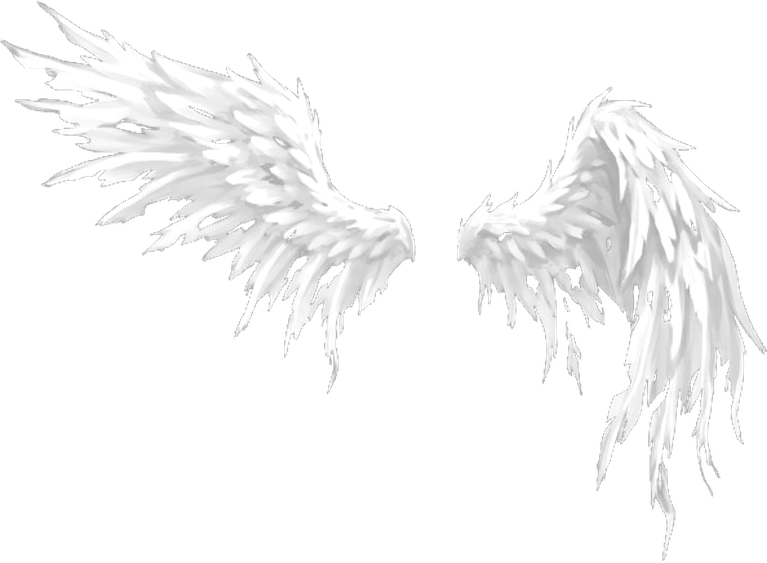
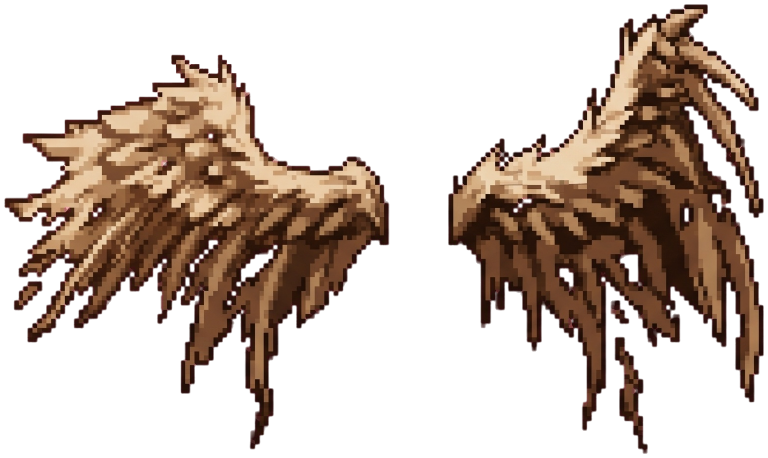
CELESTIAL-KIRIK-KANAT-YENI: Kırık Kanat'ın yeni sepya kanadı, sepya filtresi yalnız gövdeye (yalnız görünüm)
- public/kanat/celestial-kirik-kanat.webp: macenta zeminli assets-ham/kanat/celestial-kirik-kanat-yeni.jpg'den
  scripts/celestial-kirik-kanat.py (renk anahtarı, yırtık delikler şeffaf, kenar despill'i en yakın temiz sepya pikselden,
  768×458 kayıpsız WebP). Dosya adı ve veri bağı aynı; eskisi git geçmişinde.
- data/kanat-esleme.json: olcek 1.45 → 1.15 (jeton karesinden daha az taşar), capa [0.5428, 0.4437] (iki kanat kökünün ortası),
  enBoy 0.5964; filtre yok.
- data/alt-soy-gorunum.json: Kırık Kanat sepyasında `kanat: false` → filtre yalnız karakter gövdesine; lineageLook bayrağa bakar
  (alan yoksa eskisi gibi kanada da). Gövde sepyası değişmedi.
- Test (gerekçe: veri değişti): as1cGorunum Kırık Kanat çapa/ölçek değerleri; altSoy41 kanat filtresi bayrağa göre.
- Önizleme onizleme-kanat.html?m=kirik (eski kanat + sepya ↔ yeni), görsel docs/sabah/celestial-kirik-kanat-yeni/karsilastirma.png.

diff --git a/src/preview/kanatOnizleme.tsx b/src/preview/kanatOnizleme.tsx
@@ -3,6 +3,9 @@
  * ?m=ab: 10 soy × (Erkek Fighter Gladyatör, Kadın Wizard) × (256, 96 px rozet), önce/sonra karşılaştırması için aynı sayfa iki sürümde çekilir.
  * ?m=ozet: Erkek Fighter Gladyatör, 10 soy, 256 px (iki hal karşılaştırması için kompakt; `katmanlar.zar.etkin` açık/kapalı iki kez çekilir).
  * ?m=hepsi: bütün Dragonborn jetonları (savaş jetonu çizimi, havada), kök kontrol sayfası. ?m=kok: 4 farklı sınıf/poz, kök işaretli.
+ * ?m=kirik (CELESTIAL-KIRIK-KANAT-YENI): Celestial Kırık Kanat, eski kanat (sepya filtreli, `?eski=` ile verilen dosya) ↔ yeni kanat
+ * (filtresiz) yan yana; erkek Bard, kadın Rogue, erkek Monk; rozet ve savaş jetonu, 96 px ve 3× (288 px). Eski kanadın verisi burada
+ * sabit (kanat-esleme.json'un önceki değerleri); eski görsel geçici olarak public/kanat/ altına konup çekimden sonra silinir.
  */
 import { createRoot } from 'react-dom/client';
 import '../styles.css';
@@ -15,6 +18,8 @@ import { LookFrame } from '../ui/LookFrame';
 import { blankCharacter } from '../rules/builder';
 import { sheetAvatar } from '../battle/avatar';
 import type { CharacterSheet } from '../rules/stats';
+import gorunum from '../../data/alt-soy-gorunum.json';
+import { loadWingData, wingTable } from '../ui/wingData';
 
 const mode = new URLSearchParams(location.search).get('m') ?? 'ab';
 const base = blankCharacter('t').sheet;
@@ -159,10 +164,62 @@ async function renkOlc(adim: number) {
   const pre = document.createElement('pre'); pre.id = 'sayfa'; pre.textContent = JSON.stringify(out); host.appendChild(pre);
 }
 
+/** Eski Kırık Kanat (CELESTIAL-KIRIK-KANAT-YENI öncesi): beyaz kanat + sepya filtresi; sahte uyanış `kk-eski` ve slot `kk-eski`. */
+async function kirikHazirla() {
+  await loadWingData();
+  const uy = (gorunum as unknown as { celestialUyanis: Record<string, { sepya?: Record<string, unknown> }> }).celestialUyanis;
+  const yeni = uy['kirik-kanat']!;
+  uy['kk-eski'] = { ...yeni, kanat: 'kk-eski', sepya: { ...yeni.sepya, kanat: true } } as never;
+  wingTable.slotlar['kk-eski'] = { ...wingTable.slotlar['celestial-kirik-kanat']!, dosya: q.get('eski') ?? '_karsilastirma-eski.webp', olcek: 1.45, capa: [0.568, 0.438], enBoy: 0.734 };
+}
+const KIRIK: Array<{ ad: string; sheet: Partial<CharacterSheet> }> = [
+  { ad: 'Erkek Bard', sheet: { classId: 'bard', gender: 'erkek' } },
+  { ad: 'Kadın Rogue', sheet: { classId: 'rogue', gender: 'kadin' } },
+  { ad: 'Erkek Monk', sheet: { classId: 'monk', gender: 'erkek' } },
+];
+const KIRIK_KOL = [{ aw: 'kk-eski', ad: 'ESKİ kanat + sepya filtresi' }, { aw: 'kirik-kanat', ad: 'YENİ kanat (filtresiz)' }];
+function KirikHucre({ ch, aw, size, kind }: { ch: (typeof KIRIK)[number]; aw: string; size: number; kind: 'rozet' | 'jeton' }) {
+  const sheet = { ...base, raceId: 'celestial', level: 5, celestialAwakening: aw, ...ch.sheet } as CharacterSheet;
+  const a = sheetAvatar(sheet);
+  const box = Math.round(size * 1.6);
+  if (kind === 'rozet') return (
+    <div style={{ width: box, height: Math.round(size * 1.15), display: 'flex', alignItems: 'flex-end', justifyContent: 'center' }}>
+      <LookFrame sheet={{ raceId: 'celestial', celestialAwakening: aw, level: 5 }} size={size} ability><AvatarBadge avatar={a} size={size} eager /></LookFrame>
+    </div>
+  );
+  return (
+    <svg width={box} height={Math.round(size * 1.15)} viewBox={`0 0 ${box} ${Math.round(size * 1.15)}`} style={{ background: '#2b3a2a', borderRadius: 6 }}>
+      <AvatarCircle avatar={a} cx={box / 2} cy={Math.round(size * 1.15) / 2} r={size / 2} eager />
+    </svg>
+  );
+}
+function PageKirik() {
+  const satir = (kind: 'rozet' | 'jeton', size: number) => `${kind === 'rozet' ? 'Rozet' : 'Savaş jetonu'} ${size} px`;
+  return (
+    <div id="sayfa" style={{ background: '#1d2128', color: '#e8e4da', font: '13px system-ui', padding: 10, display: 'inline-block' }}>
+      {KIRIK.map((ch) => (
+        <div key={ch.ad} style={{ borderBottom: '1px solid #3a4350', padding: '6px 0' }}>
+          <div style={{ color: '#f5d76e', fontWeight: 700, fontSize: 15 }}>{ch.ad} · Celestial Kırık Kanat (5. seviye)</div>
+          <div style={{ display: 'grid', gridTemplateColumns: `90px repeat(${KIRIK_KOL.length}, auto)`, columnGap: 18, alignItems: 'end' }}>
+            <div />{KIRIK_KOL.map((k) => <div key={k.aw} style={{ ...lab, fontWeight: 700 }}>{k.ad}</div>)}
+            {(['rozet', 'jeton'] as const).flatMap((kind) => [96, 288].map((size) => (
+              <div key={kind + size} style={{ display: 'contents' }}>
+                <div style={{ alignSelf: 'center', color: '#cfd3dc' }}>{satir(kind, size)}</div>
+                {KIRIK_KOL.map((k) => <KirikHucre key={k.aw} ch={ch} aw={k.aw} size={size} kind={kind} />)}
+              </div>
+            )))}
+          </div>
+        </div>
+      ))}
+    </div>
+  );
+}
+
 const host = document.createElement('div'); host.style.cssText = 'position:fixed;left:0;top:0;z-index:99999'; document.body.appendChild(host);
 if (mode === 'ab') createRoot(host).render(<PageAb />);
 else if (mode === 'hepsi') createRoot(host).render(<PageHepsi />);
 else if (mode === 'kok') createRoot(host).render(<PageKok />);
 else if (mode === 'ozet') createRoot(host).render(<PageOzet />);
 else if (mode === 'figur') createRoot(host).render(<PageFigur />);
+else if (mode === 'kirik') void kirikHazirla().then(() => createRoot(host).render(<PageKirik />));
 else if (mode === 'renk') void renkOlc(+(q.get('adim') ?? 5));

diff --git a/src/ui/lineageLook.ts b/src/ui/lineageLook.ts
@@ -44,8 +44,11 @@ const D = data as unknown as {
   ten: { varsayilan: string; filtreUygula: boolean; tonlar: SkinTone[]; kulturTen: Record<string, string[]>;
     surgun: { kultur: string; secenekler: string[]; ad: Record<string, { tr: string; en: string }> } };
 };
-/** CELESTIAL-KIRIK-KANAT-SEPYA: uyanışın sepya tonu (veride `celestialUyanis.<uyanış>.sepya`); `acik: false` kapatır. */
-export interface Sepya { acik: boolean; gri: number; sepya: number; doygunluk: number; parlaklik: number; ton: number }
+/**
+ * CELESTIAL-KIRIK-KANAT-SEPYA: uyanışın sepya tonu (veride `celestialUyanis.<uyanış>.sepya`); `acik: false` kapatır.
+ * CELESTIAL-KIRIK-KANAT-YENI: `kanat: false` yalnız gövdeye (kanat katmanı kendi renginde); alan yoksa kanada da.
+ */
+export interface Sepya { acik: boolean; gri: number; sepya: number; doygunluk: number; parlaklik: number; ton: number; kanat?: boolean }
 /** Sepya ayarı → CSS filtresi (jeton gövdesi ve kanat katmanı aynı dizgeyi alır; `url(#…)` değil: WingFilterHost/Firefox kimlik tuzağı yok). */
 export const sepyaFilter = (s: Sepya | undefined): string =>
   s?.acik ? `grayscale(${s.gri}) sepia(${s.sepya}) saturate(${s.doygunluk}) brightness(${s.parlaklik})${s.ton ? ` hue-rotate(${s.ton}deg)` : ''}` : '';
@@ -217,6 +220,7 @@ export function lineageLook(sheet: LookSheet, opts: { flying?: boolean; ability?
   let scaleX = 1, scaleY = 1, hideHalo = false;
   let wingId: string | undefined;
   let tone = '';
+  let wingTone = true;
   const level = sheet.level ?? 1;
   if (sheet.raceId === 'celestial') {
     const aw = D.celestialUyanis[sheet.celestialAwakening ?? AWAKENING_DEFAULT];
@@ -225,6 +229,7 @@ export function lineageLook(sheet: LookSheet, opts: { flying?: boolean; ability?
       if (aw.filtre) filters.push(aw.filtre);
       tone = sepyaFilter(aw.sepya);
       if (tone) filters.push(tone);
+      wingTone = aw.sepya?.kanat !== false;
       wingId = aw.kanat;
     }
   } else {
@@ -237,8 +242,8 @@ export function lineageLook(sheet: LookSheet, opts: { flying?: boolean; ability?
   wingId = subclassWingId(sheet) ?? wingId;
   if (!wingId && sheet.raceId === 'dragonborn') wingId = 'dragonborn';
   const raw = wingId ? wingLayer(wingId, level, !!(opts.flying || opts.ability), sheet.lineageId) : null;
-  // Sepya kanada da aynı CSS filtresiyle (kanat ayrıca renk almaz: palet/katman yerine sepya; Kırık Kanat'ın paleti yok).
-  const wing = raw && tone ? (({ palet: _p, katmanlar: _k, ...w }) => ({ ...w, filtre: [w.filtre, tone].filter(Boolean).join(' ') }))(raw) : raw;
+  // Sepya kanada da aynı CSS filtresiyle (kanat ayrıca renk almaz: palet/katman yerine sepya), veride `kanat: false` değilse.
+  const wing = raw && tone && wingTone ? (({ palet: _p, katmanlar: _k, ...w }) => ({ ...w, filtre: [w.filtre, tone].filter(Boolean).join(' ') }))(raw) : raw;
   return { filter: filters.join(' '), scaleX, scaleY, wing, hideHalo };
 }
 

diff --git a/src/ui/as1cGorunum.test.tsx b/src/ui/as1cGorunum.test.tsx
@@ -76,9 +76,9 @@ describe('kanat katmanı (bağlı)', () => {
   it('eşleme: üç slot (Anka ve Melek bağlaması KQ6-3 ile kaldırıldı), dosyalar bağlı ve gerçekten var, çapa/oran/omuz veride, Dragonborn 10 renk filtresi', async () => {
     expect(Object.keys(s).sort()).toEqual(['celestial-kirik-kanat', 'dragonborn', 'tiefling-kanatli']);
     // KW1: Dragonborn görseli TEK (sağ) kanat (`ayna`: iki yana ayna, kök gövdeye bağlı): çapa kanadın kökü (omuz eklemi), `olcek` tek kanadın jeton genişliğine oranı,
-    // `omuz` kökün jeton yüksekliğindeki yeri (omuz–dirsek bandı). Diğer iki slot kanat çifti: çapa jetonun yatay merkezinde, çift genişliği 1.45, omuz 0.46.
-    const capa = { 'tiefling-kanatli': [0.501, 0.708], 'celestial-kirik-kanat': [0.568, 0.438], dragonborn: [0.0577, 0.448] };
-    const olcek = { 'tiefling-kanatli': 1.45, 'celestial-kirik-kanat': 1.45, dragonborn: 0.6 } as Record<string, number>;
+    // `omuz` kökün jeton yüksekliğindeki yeri (omuz–dirsek bandı). Diğer iki slot kanat çifti: çapa jetonun yatay merkezinde, çift genişliği 1.45 (Kırık Kanat 1.15: CELESTIAL-KIRIK-KANAT-YENI), omuz 0.46.
+    const capa = { 'tiefling-kanatli': [0.501, 0.708], 'celestial-kirik-kanat': [0.5428, 0.4437], dragonborn: [0.0577, 0.448] };
+    const olcek = { 'tiefling-kanatli': 1.45, 'celestial-kirik-kanat': 1.15, dragonborn: 0.6 } as Record<string, number>;
     const omuz = { 'tiefling-kanatli': 0.46, 'celestial-kirik-kanat': 0.46, dragonborn: 0.4 } as Record<string, number>;
     for (const [id, w] of Object.entries(s)) {
       expect(w.dosya, id).toBe(`${id}.webp`);

diff --git a/src/rules/altSoy41.test.tsx b/src/rules/altSoy41.test.tsx
@@ -233,7 +233,10 @@ describe('görünüm verisi', () => {
     const sp = (gorunum.celestialUyanis as Record<string, { sepya?: Sepya }>)['kirik-kanat']!.sepya!;
     const kk = at('kirik-kanat', 5, true);
     expect(kk.filter).toBe(sp.acik ? sepyaFilter(sp) : '');
-    if (sp.acik) { expect(kk.filter).toMatch(/^grayscale\(1\) sepia\(/); expect(kk.wing?.filtre).toContain(kk.filter); expect(kk.wing?.palet).toBeUndefined(); }
+    if (sp.acik) expect(kk.filter).toMatch(/^grayscale\(1\) sepia\(/);
+    // CELESTIAL-KIRIK-KANAT-YENI: `kanat: false` → kanat kendi renginde (filtre yok); aksi halde kanada da aynı sepya.
+    if (sp.acik && sp.kanat === false) expect(kk.wing?.filtre ?? '').not.toContain('sepia');
+    else if (sp.acik) { expect(kk.wing?.filtre).toContain(kk.filter); expect(kk.wing?.palet).toBeUndefined(); }
     expect(sepyaFilter({ ...sp, acik: false })).toBe('');
     expect(at('parlayan-ruh').filter).toBe('');
     expect(at('gece-gozyasi').filter).not.toContain('sepia');

diff --git a/scripts/celestial-kirik-kanat.py b/scripts/celestial-kirik-kanat.py
@@ -1,0 +1,77 @@
+#!/usr/bin/env python3
+"""CELESTIAL-KIRIK-KANAT-YENI (yalnız görünüm): düz macenta zeminli Kırık Kanat görselinden şeffaf kanat çifti üretir.
+`python -X utf8 scripts/celestial-kirik-kanat.py [--kaynak <jpg>] [--cikti <webp>] [--en 768]`
+- Zemin: renk anahtarı (macentalık m = min(R, B) − G); kanat içindeki yırtık delikler de aynı anahtarla şeffaf (taşma dolgusu değil).
+- Kenar (despill): yarı saydam ve macentaya kaymış (m > 0) her piksel rengini en yakın temiz sepya pikselden alır (alfa anahtardan);
+  temiz (opak, m ≤ 0) sepya piksellerine dokunulmaz.
+- Küçük kırıntılar (JPG gürültüsü) atılır; iki kanat ve aralarındaki boşluk tek görselde kalır, kanatların ortak sınırına kırpılır.
+- Ölçek: kırpılmış çift `--en` px genişliğe alan ortalamasıyla (premultiplied) küçültülür; kayıpsız WebP.
+- Konsola `capa` (iki kanat kökünün ortası, görsel oranı) ve `enBoy` yazılır (`data/kanat-esleme.json` `celestial-kirik-kanat`)."""
+import argparse, os
+import numpy as np
+from PIL import Image
+from scipy import ndimage
+
+ROOT = os.path.dirname(os.path.dirname(os.path.abspath(__file__)))
+OPAK = 40          # m ≤ OPAK: tam opak (sepya ve koyu çizgi m < 0)
+SEFFAF = 200       # m ≥ SEFFAF: tam şeffaf (zemin m ≈ 251)
+KIRINTI = 400      # bundan küçük opak bileşen (kaynak px) atılır
+PAY = 4            # kırpma payı (çıkış px)
+# Kanat kökleri (kaynak px, 2400×1792): sol kanadın gövdeye bakan omuz düğümü ve sağ kanadınki (yuvarlak kemik ucu).
+KOK_SOL = (1290, 730)
+KOK_SAG = (1430, 745)
+
+
+def main():
+    ap = argparse.ArgumentParser()
+    ap.add_argument('--kaynak', default=os.path.join(ROOT, 'assets-ham/kanat/celestial-kirik-kanat-yeni.jpg'))
+    ap.add_argument('--cikti', default=os.path.join(ROOT, 'public/kanat/celestial-kirik-kanat.webp'))
+    ap.add_argument('--en', type=int, default=768)
+    a = ap.parse_args()
+    rgb = np.asarray(Image.open(a.kaynak).convert('RGB')).astype(np.float64)
+    h0, w0 = rgb.shape[:2]
+    kenar = np.concatenate([rgb[:40].reshape(-1, 3), rgb[-40:].reshape(-1, 3), rgb[:, :40].reshape(-1, 3), rgb[:, -40:].reshape(-1, 3)])
+    zemin = np.median(kenar, 0)
+    m = np.minimum(rgb[..., 0], rgb[..., 2]) - rgb[..., 1]
+    alfa = np.clip((SEFFAF - m) / (SEFFAF - OPAK), 0, 1)
+    # Kırıntı temizliği: yarıdan opak bileşenler; küçükler ve onlara bağlı yarı saydam hale atılır.
+    lab, n = ndimage.label(alfa > 0.5)
+    alan = ndimage.sum(np.ones_like(alfa), lab, range(1, n + 1))
+    tut = np.zeros(n + 1, bool); tut[1:] = alan >= KIRINTI
+    govde = ndimage.binary_dilation(tut[lab], iterations=3)
+    alfa = np.where(govde, alfa, 0)
+    alfa[alfa < 0.04] = 0
+    # Un-premultiply: P = a·C + (1 − a)·K → C = (P − (1 − a)·K) / a.
+    a3 = alfa[..., None]
+    renk = np.where(a3 > 0, (rgb - (1 - a3) * zemin) / np.maximum(a3, 1e-6), 0)
+    renk = np.clip(renk, 0, 255)
+    # Taşma temizliği: JPG renk alt örneklemesi kenarda macentayı kırmızıya kaydırır; temiz olmayan (yarı saydam ya da m > 0)
+    # her piksel rengini en yakın temiz sepya pikselden alır (alfa aynı kalır).
+    temiz = (alfa >= 1) & (m <= 0)
+    _, (iy, ix) = ndimage.distance_transform_edt(~temiz, return_indices=True)
+    kirli = (alfa > 0) & ~temiz
+    renk[kirli] = renk[iy[kirli], ix[kirli]]
+    # Kırpma (kaynakta), sonra premultiplied alan ortalamasıyla küçültme.
+    ys, xs = np.nonzero(alfa > 0)
+    x0, x1, y0, y1 = xs.min(), xs.max() + 1, ys.min(), ys.max() + 1
+    k = a.en / (x1 - x0 + 2 * PAY * (x1 - x0) / a.en)
+    pay = int(round(PAY / k))
+    x0, y0 = max(0, x0 - pay), max(0, y0 - pay); x1, y1 = min(w0, x1 + pay), min(h0, y1 + pay)
+    cw, ch = x1 - x0, y1 - y0
+    W = a.en; H = int(round(ch * W / cw))
+    pre = np.dstack([renk[y0:y1, x0:x1] * alfa[y0:y1, x0:x1, None], alfa[y0:y1, x0:x1] * 255])
+    kucuk = np.stack([np.asarray(Image.fromarray(pre[..., i].astype(np.float32), 'F').resize((W, H), Image.BOX)) for i in range(4)], -1)
+    al = kucuk[..., 3]
+    col = np.where(al[..., None] > 0, kucuk[..., :3] / np.maximum(al[..., None] / 255, 1e-6), 0)
+    out = np.dstack([np.clip(col, 0, 255), np.clip(al, 0, 255)]).round().astype(np.uint8)
+    out[out[..., 3] < 3] = 0
+    Image.fromarray(out, 'RGBA').save(a.cikti, 'WEBP', lossless=True, quality=100, method=6)
+    s = W / cw
+    kx = ((KOK_SOL[0] + KOK_SAG[0]) / 2 - x0) * s; ky = ((KOK_SOL[1] + KOK_SAG[1]) / 2 - y0) * s
+    print(f'zemin {zemin.round().astype(int).tolist()}, kırpma x {x0}..{x1} y {y0}..{y1} → {W}×{H}, {os.path.getsize(a.cikti) // 1024} KB')
+    print(f'kökler (çıkış px): sol {((KOK_SOL[0] - x0) * s):.0f},{((KOK_SOL[1] - y0) * s):.0f}  sağ {((KOK_SAG[0] - x0) * s):.0f},{((KOK_SAG[1] - y0) * s):.0f}')
+    print(f'capa = [{kx / W:.4f}, {ky / H:.4f}]  enBoy = {H / W:.4f}')
+
+
+if __name__ == '__main__':
+    main()

diff --git a/DECISIONS.md b/DECISIONS.md
@@ -2,6 +2,18 @@
 
 Projede alınan içerik ve kural kararlarının kaydı. En yeni karar en üstte.
 
+## CELESTIAL-KIRIK-KANAT-YENI: Kırık Kanat'ın yeni sepya kanadı (2026-11-23; yalnız görünüm, kural/kayıt sürümü değişmedi)
+
+- **Görsel:** `public/kanat/celestial-kirik-kanat.webp` (dosya adı ve veri bağı aynı; eskisi git geçmişinde) macenta zeminli
+  `assets-ham/kanat/celestial-kirik-kanat-yeni.jpg`'den `python -X utf8 scripts/celestial-kirik-kanat.py` ile: renk anahtarı
+  (min(R, B) − G), yırtık delikler de şeffaf, kenar despill'i en yakın temiz sepya pikselin rengiyle, 768×458 kayıpsız WebP.
+- **Yerleşim:** `data/kanat-esleme.json` `olcek` 1,45 → 1,15 (jeton karesinden daha az taşar), `capa` iki kanat kökünün ortası
+  [0,5428, 0,4437], `omuz` 0,46 aynı; kanat figürün arkasında.
+- **Renk:** kanat kendi sepyasında, filtre/palet yok. Kırık Kanat sepyası veride ayrıldı: `alt-soy-gorunum.json`
+  `celestialUyanis.kirik-kanat.sepya.kanat: false` → filtre yalnız gövdeye (`lineageLook`); alan yoksa ya da `true` ise kanada da.
+- **Karşılaştırma:** `docs/sabah/celestial-kirik-kanat-yeni/karsilastirma.png` (eski kanat + sepya ↔ yeni; `onizleme-kanat.html?m=kirik`).
+  Rozette kanat dairenin arkasında kalır (önceki gibi); küçülen kanat rozette yalnız kenarlardan görünür.
+
 ## KESIM-TEPE: 590 jetonun silinmiş tepe konturu geri kondu (2026-11-23; yalnız görünüm, kural/kayıt sürümü değişmedi)
 
 - **Kök neden:** KESIM-DUZELT (102538ec) öncesi `toplu-kesim.py` şerit silmesi figürün üst kenarındaki koyu konturu (saç/kapüşon/şapka
